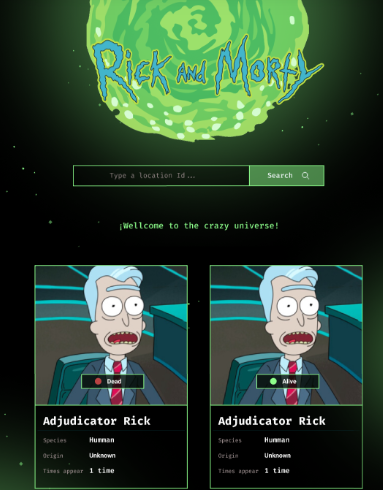
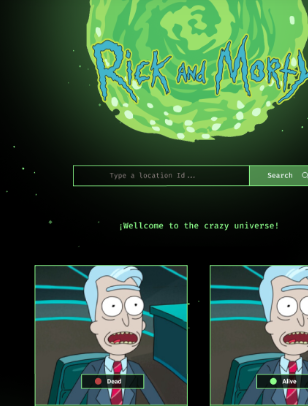
Se añadio mas informacion del proyecto

diff --git a/src/components/DataPortfolio.jsx b/src/components/DataPortfolio.jsx
@@ -60,7 +60,24 @@ const DataPortfolio = () => {
                     
                     
                     
-
+<div>
+                            <img src="/images2/bg33.png" alt="" />
+                        </div>
+                        <div className='absolute flex justify-end m-2 px-2 pb-4'>
+                            <div className='flex justify-end p-2 m-2'>
+                                <img style={{ maxWidth: '80%', minWidth: '50%' }} src="/images2/bg31.png" alt="" />
+                            </div>
+                        </div>
+                        <div className='hidden md:block' >
+                            <div className="absolute p-2 m-2 top-0 left-0 right-0 flex justify-center">
+                                <img className="rounded-lg overflow-hidden" src="/images1/ricly.png" alt="" style={{ maxWidth: '60%', minWidth: '40%' }} />
+                            </div>
+                        </div>
+                        <div className='block md:hidden' >
+                            <div className="absolute p-4 m-2 top-0 left-0 right-0 flex justify-center">
+                                <img className="rounded-lg overflow-hidden" src="/images1/ricly.png" alt="" style={{ maxWidth: '60%', minWidth: '40%' }} />
+                            </div>
+                        </div>
  
 
 
@@ -126,7 +143,10 @@ const DataPortfolio = () => {
 
                 </div>
 
-
+                <br />
+                <br />
+                <br />
+                <br />
 
 
 
@@ -134,7 +154,7 @@ const DataPortfolio = () => {
                 <Projects />
 
 
-
+                {/* 
                 <div className='p-2 m-2 flex flex-col md:flex-row justify-center '>
 
                     <div className='p-2 m-2 flex items-center max-w-[350px]  md:w-1/2 order-1 md:order-2'>
@@ -143,33 +163,85 @@ const DataPortfolio = () => {
                         </p>
                     </div>
 
-                    <div className='p-2  relative flex flex-col justify-end  md:w-1/2 order-2 md:order-1'>
 
+
+                    <div className='p-2  relative flex flex-col justify-end   md:w-1/2 order-2 md:order-1 '>
                         <div>
                             <img src="/images2/bg33.png" alt="" />
                         </div>
-                        <div className='absolute flex justify-end m-2 px-2 pb-4'>
-                            <div className='flex justify-end p-2 m-2'>
-                                <img style={{ maxWidth: '80%', minWidth: '50%' }} src="/images2/bg31.png" alt="" />
-                            </div>
-                        </div>
-                        <div className='hidden md:block' >
-                            <div className="absolute p-4 m-4 top-0 left-0 right-0 flex justify-center">
-                                <img className="rounded-lg overflow-hidden" src="/images1/ricly.png" alt="" style={{ maxWidth: '55%', minWidth: '40%' }} />
-                            </div>
-                        </div>
-                        <div className='block md:hidden' >
-                            <div className="absolute p-4 m-2 top-0 left-0 right-0 flex justify-center">
-                                <img className="rounded-lg overflow-hidden" src="/images1/ricly.png" alt="" style={{ maxWidth: '60%', minWidth: '40%' }} />
-                            </div>
+
+                        <div className='absolute flex justify-center m-2 p-2'>
+                            <img style={{ maxWidth: '80%', minWidth: '50%' }} src="/images2/bg30.png" alt="" />
                         </div>
 
+                        <div className="absolute p-2 m-2 top-0 left-0 right-0 flex justify-center">
+                            <img className="rounded-lg overflow-hidden" src="/images1/poke.png" alt="" style={{ maxWidth: '60%', minWidth: '40%' }} />
+                        </div>
                     </div>
 
 
 
                 </div>
+*/}
+                <br />
+                <br />
+                <br />
+                <br />
 
+                <div className='p-2 m-2 flex flex-col md:flex-row justify-center '>
+
+                    <div id='projects' className='p-2 m-2 flex items-center max-w-[350px] md:w-1/2 order-1 md:order-2'>
+                        <p className='p-4'>
+                            Get to know the crazy universe of “Rick and Morty”. A site where the user can see information about the locations of the "Rick and Morty" universe and learn about the various characters in the series.
+                        </p>
+                    </div>
+
+                    <br />
+                    <br />
+
+                    <div className='relative  md:w-1/2 order-2 md:order-1'>
+
+
+                        <div className='p-2  relative flex flex-col justify-end '>
+                            <div>
+                                <img src="/images2/bg33.png" alt="" />
+                            </div>
+
+                            <div className='absolute flex justify-end m-2 p-2'>
+                                <div className='bg-black/05 w-[90px] h-[20px] p-2 m-4'></div>
+                                <img style={{ maxWidth: '70%', minWidth: '30%' }} src="/images2/bg31.png" alt="" />
+                            </div>
+                        </div>
+
+
+
+
+
+                        <div className='hidden md:block' >
+                            <div className="absolute p-2 m-2 top-0 left-0 right-0 flex justify-center">
+                                <img className="rounded-lg overflow-hidden" src="/images1/ricly.png" alt="" style={{ maxWidth: '60%', minWidth: '40%' }} />
+                                <div className='bg-black/05 w-[100px] h-[209px] p-2 m-4'></div>
+                            </div>
+                        </div>
+
+                        <div className='block md:hidden' >
+                            <div className="absolute p-4 m-2 top-0 left-0 right-0 flex justify-center">
+                                <img className="rounded-lg overflow-hidden" src="/images1/ricly.png" alt="" style={{ maxWidth: '70%', minWidth: '20%' }} />
+                                <div className='bg-black/05 w-[20px] h-[20px] p-2 m-4'></div>
+                            </div>
+                        </div>
+
+
+                    </div>
+
+
+                </div>
+
+
+                <br />
+                <br />
+                <br />
+                <br />
 
 
                 <div className='p-2 m-2 flex flex-col md:flex-row justify-center '>
@@ -205,14 +277,18 @@ const DataPortfolio = () => {
                                 <img className="rounded-lg overflow-hidden" src="/images1/poke.png" alt="" style={{ maxWidth: '60%', minWidth: '40%' }} />
                             </div>
                         </div>
-                        {/*
-*/}
+
                     </div>
 
 
                 </div>
 
 
+
+                <br />
+                <br />
+                <br />
+                <br />
 
 
             </section>

diff --git a/src/components/ModalContact.jsx b/src/components/ModalContact.jsx
@@ -21,27 +21,27 @@ const ModalContact = ({ changeModalShow, modalShow }) => {
 
 
 
-                    Puedes enviarme un correo electrónico a
+                    You can email me at:
                     <a href="mailto:tuemail@example.com" className="text-[#4657da] px-2 underline"> pevallos1965@gmail.com</a>
 
                     <br />
                     <br />
 
-                    o llamarme al
+                    or call me at:
                     <a href="tel:+994449692" className="text-[#4657da] px-2 underline">+593 994449692</a>.
-                    Este numero tiene WhatsApp.
+                    This number has WhatsApp.
                     <br />
                     <br />
 
-                    También puedes encontrarme en las redes sociales:
+                    You can also find me on social networks:
                     <a href="https://www.linkedin.com/" className="text-[#4657da] px-2 underline"> LinkedIn</a>
 
-                    como Peter Maler  y en
+                    as Peter Maler  and in
                     <a href="https://www.facebook.com/" className="text-[#4657da] px-2 underline"> Facebook</a>
 
-                    como Christopher Cevallos y en
+                    as Christopher Cevallos and in
                     <a href="https://www.Instagram.com/" className="text-[#4657da] px-2 underline"> Instagram </a>
-                    como peter_ventanas
+                    as peter_ventanas
 
 
                 </p>

diff --git a/src/components/AboutMe1.jsx b/src/components/AboutMe1.jsx
@@ -15,7 +15,7 @@ const AboutMe1 = () => {
     return (
         <section className="flex justify-center">
             <div className='text-white bg-stone-700 bg-opacity-30 p-4 m-8 rounded-xl overflow-x-hidden max-w-[1000px]  justify-center inline-flex '>
-                <div id='contact' className="flex flex-col items-center ms:max-w-[630px]  h-auto  p-2">
+                <div id='about' className="flex flex-col items-center ms:max-w-[630px]  h-auto  p-2">
                     <h1 className='p-2 m-4 font-bold text-[30px]'>About Me!</h1>
 
                     <div className="text-3xl">

diff --git a/src/components/Footer.jsx b/src/components/Footer.jsx
@@ -13,7 +13,7 @@ const Footer = () => {
     }
 
     return (
-        <section className="flex justify-center">
+        <section id='contact' className="flex justify-center">
             <div className='text-white bg-stone-700 bg-opacity-30 p-4 m-8 rounded-xl overflow-x-hidden max-w-[1000px]  justify-center inline-flex '>
                 <div id='contact' className="flex flex-col items-center ms:max-w-[630px]  h-auto  p-2">
                     <h1 className='p-2 m-4 font-bold text-[30px]'>Contact me!</h1>
